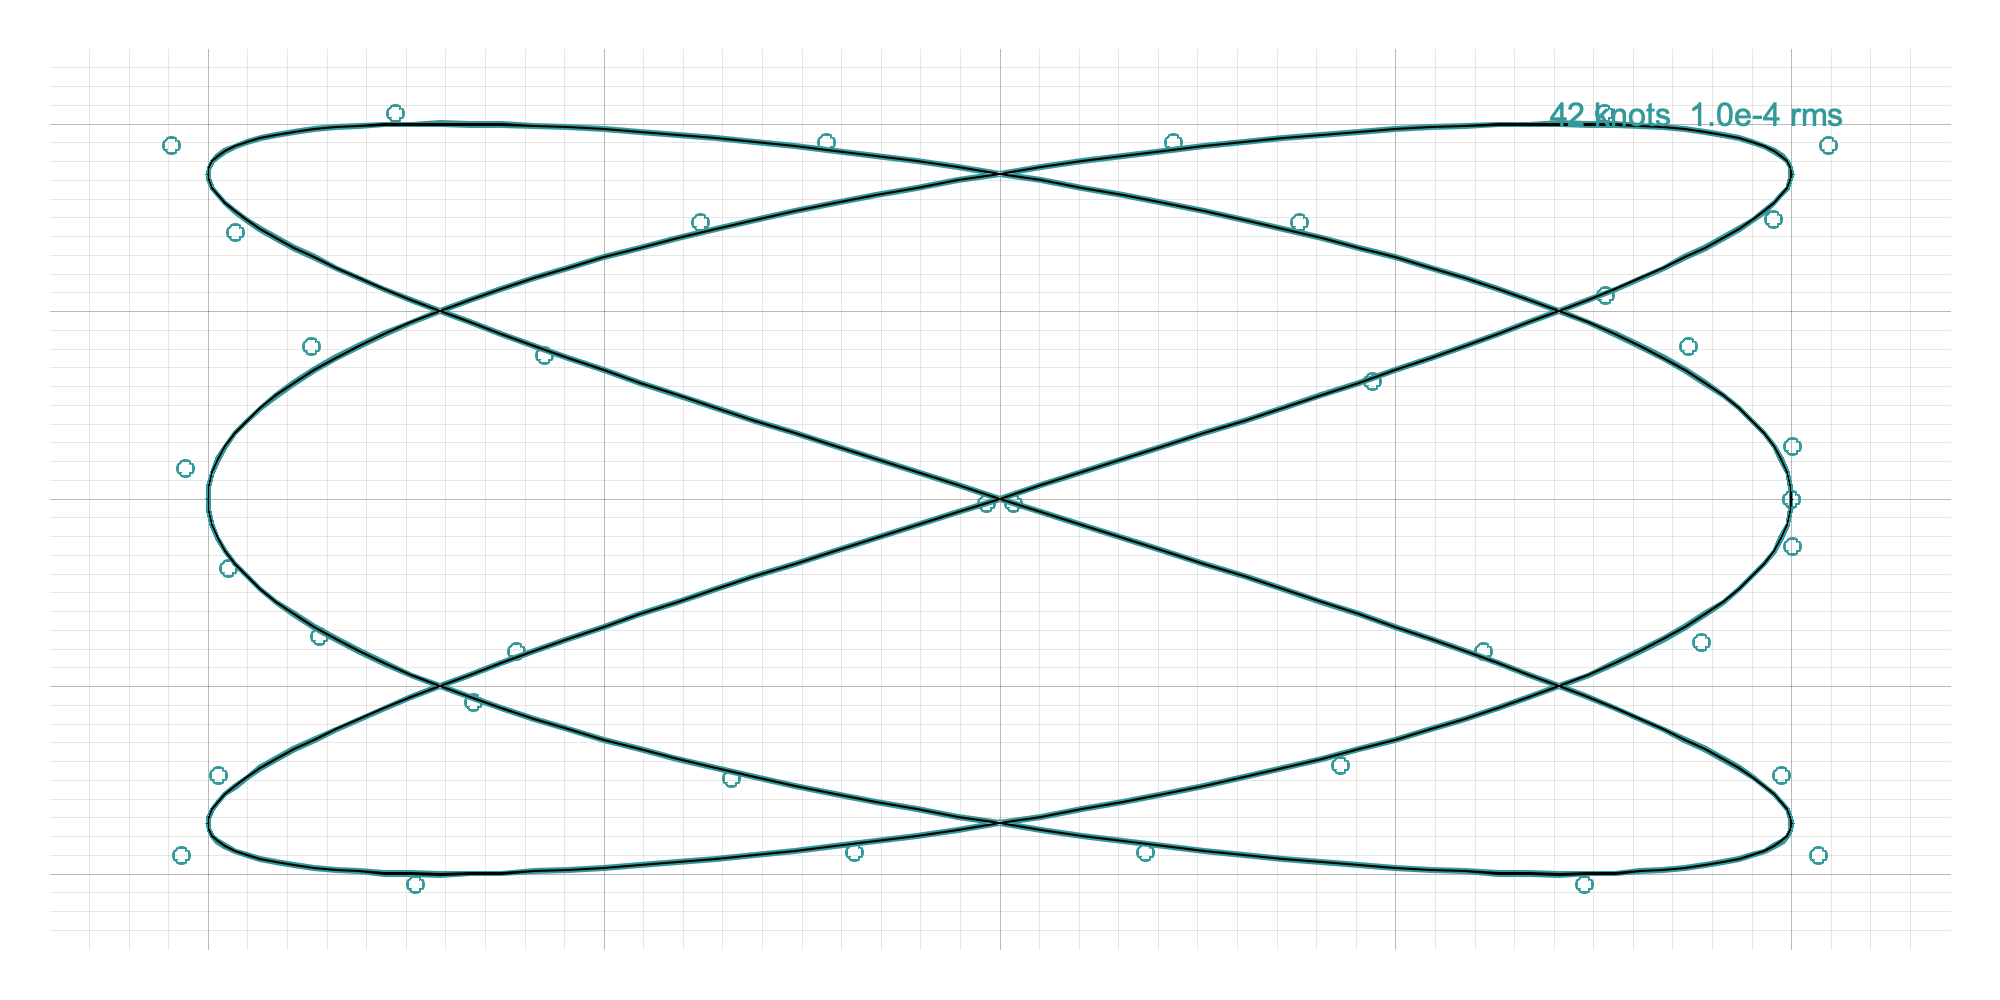
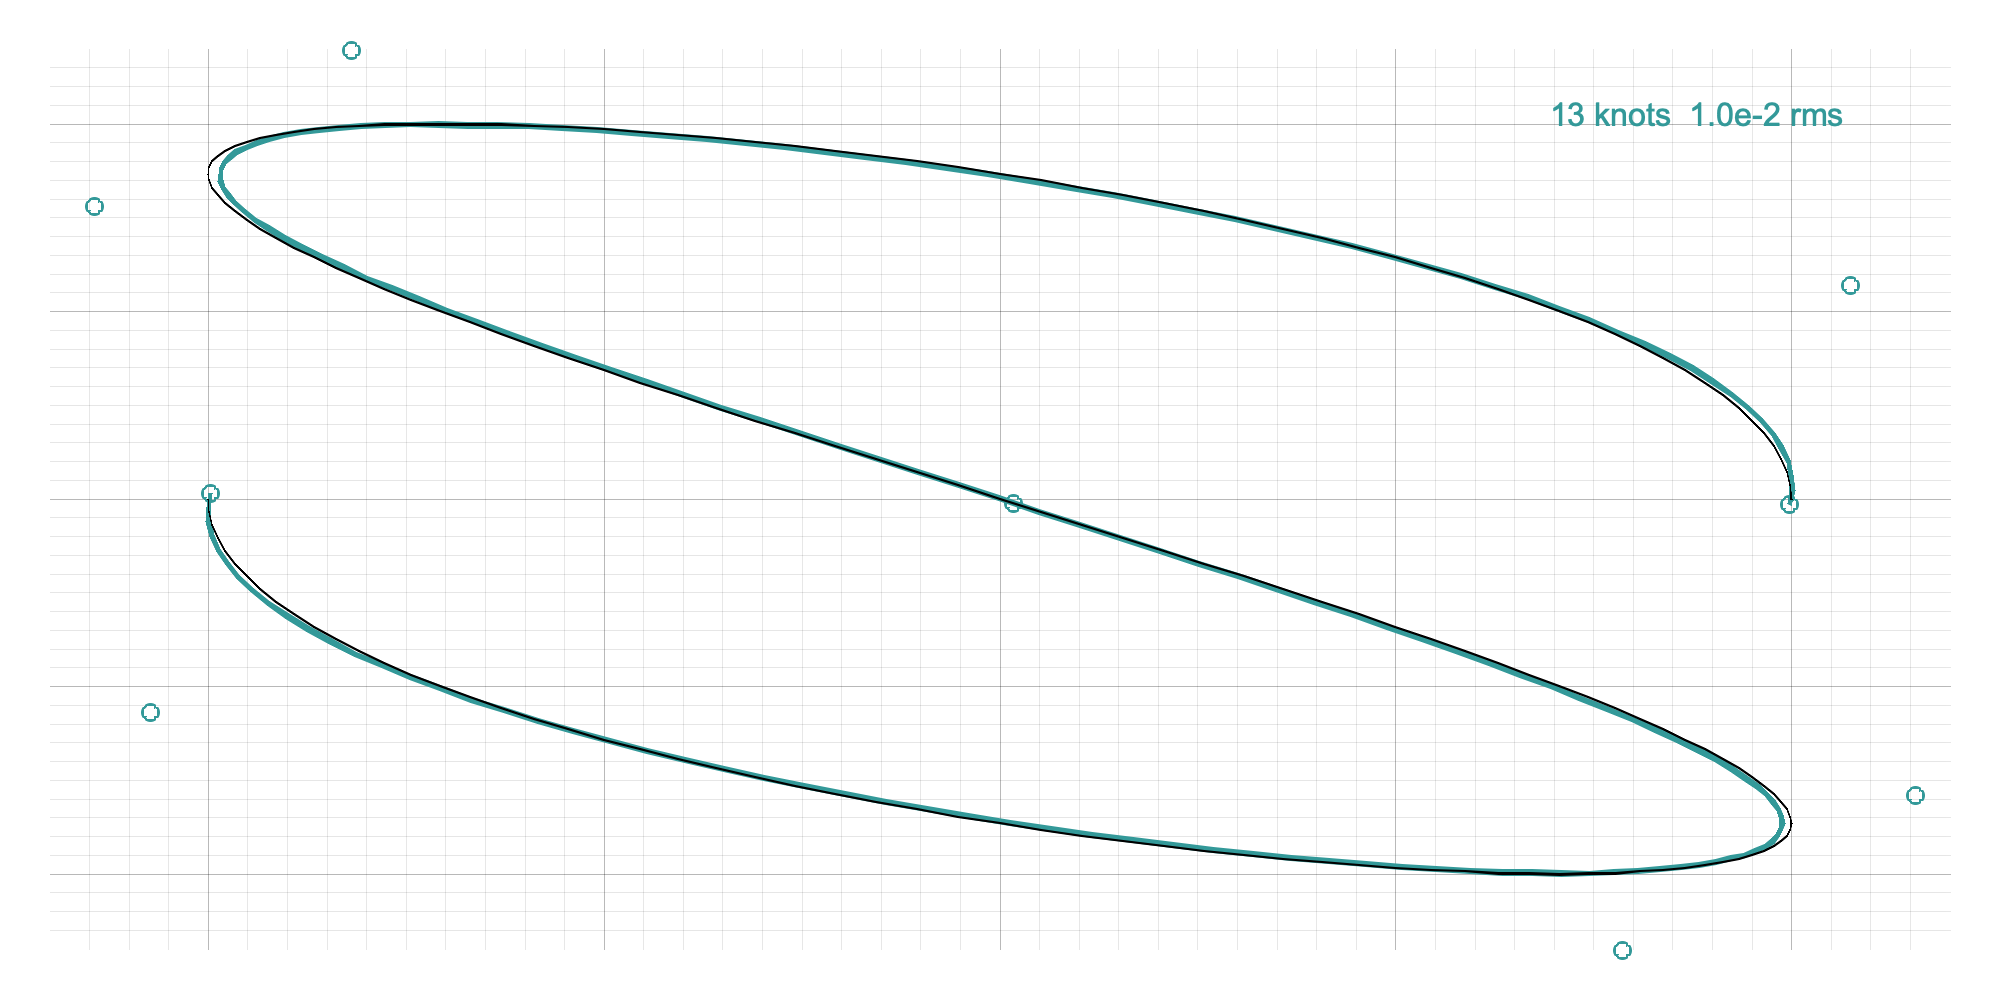
example fixes

diff --git a/examples/lissajous/main.rs b/examples/lissajous/main.rs
@@ -14,7 +14,7 @@ fn main() -> Result<()> {
 
     std::env::set_current_dir(std::path::Path::new(file!()).parent().unwrap())?;   
 
-    let ts: Vec<f64> = (0..=360u32).into_iter().step_by(1).map(|v|(v as f64).to_radians()).collect();
+    let ts: Vec<f64> = (0..=180u32).into_iter().step_by(1).map(|v|(v as f64).to_radians()).collect();
     let mut xy: Vec<f64> = Vec::with_capacity(ts.len()*2);
 
     for t in &ts {
@@ -25,7 +25,7 @@ fn main() -> Result<()> {
     let d = 
         ParameterCurveSplineFit::<3,2>
             ::new(ts.clone(), xy.clone())?
-            .smoothing_spline(1E-4)?;
+            .smoothing_spline(1E-2)?;
 
     let json = serde_json::to_string_pretty(&d)?;
     println!("{}", json);
